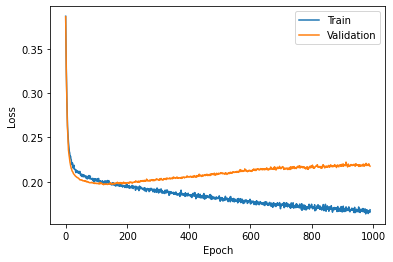
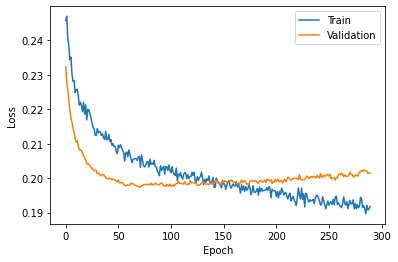
On original full dataset
Val error bottoms out at 0.2 after 50 epochs

diff --git a/model.py b/model.py
@@ -1,24 +1,31 @@
 #!/usr/bin/env python3
-#import os
-#os.environ['CUDA_VISIBLE_DEVICES'] = '-1'
+
+import os
+# This small model is faster on the CPU.
+os.environ['CUDA_VISIBLE_DEVICES'] = '-1'
 
 import numpy as np
 from sklearn.model_selection import train_test_split
 import pandas as pd
 import tensorflow as tf
+import tensorflow.keras.layers as layers
+from tensorflow.keras.models import Sequential
+import tensorflow.keras.optimizers as optimizers
+from tensorflow.keras.callbacks import TensorBoard
 
 import matplotlib.pyplot as plt
 import IPython.display
 
 import time
 import random
-import os
 import sys
 
-start_time = time.time()
+# https://keras.io/getting_started/faq/#how-can-i-obtain-reproducible-results-using-keras-during-development
+np.random.seed(345)
+tf.random.set_seed(345)
+random.set_seed(345)
 
 # %%
-
 all_data = pd.read_csv('all_data_v7.0.1.csv')
 assert len(all_data.index) == 5295, len(all_data.index)
 
@@ -31,159 +38,92 @@ num_test_samples = 400
 assert ((num_train_samples + num_val_samples + num_test_samples) == len(
     all_data.index)), len(all_data.index)
 
-train_set = all_data.sample()
+train_set, val_test_set = train_test_split(all_data,
+                                           test_size=num_val_samples +
+                                           num_test_samples,
+                                           random_state=35,
+                                           shuffle=True)
 
-X_train, X_val_test = train_test_split(all_data,
-                                       test_size=num_val_samples +
-                                       num_test_samples,
-                                       random_state=35,
-                                       shuffle=True)
+val_set, test_set = train_test_split(val_test_set,
+                                     test_size=num_test_samples,
+                                     random_state=36)
+
+val_test_set = None
+#all_data = None
+
+
+def split_X_y(dataframe):
+  y = dataframe["P_OPS"]
+  X = dataframe.drop(columns="P_OPS")
+  return (X, y)
+
+
+train_X, train_y = split_X_y(train_set)
+val_X, val_y = split_X_y(val_set)
+test_X, test_y = split_X_y(test_set)
+
+train_set = None
+val_set = None
+test_set = None
+
 #%%
 
 # Keras
 model = Sequential()
-model.add(
-    layers.Conv1D(filters=40,
-                  kernel_size=3,
-                  strides=2,
-                  activation=None,
-                  use_bias=False,
-                  kernel_initializer='he_normal',
-                  input_shape=(X_train.shape[1], 1)))
+
+model.add(layers.InputLayer(input_shape=train_X.shape[1]))
+
+model.add(layers.Dense(60, activation=None, kernel_initializer='he_normal'))
 model.add(layers.BatchNormalization())
 model.add(layers.LeakyReLU(alpha=0.01))
 
-model.add(
-    layers.Conv1D(filters=50,
-                  kernel_size=3,
-                  strides=2,
-                  activation=None,
-                  use_bias=False,
-                  kernel_initializer='he_normal'))
+model.add(layers.Dense(20, activation=None, kernel_initializer='he_normal'))
 model.add(layers.BatchNormalization())
 model.add(layers.LeakyReLU(alpha=0.01))
 
-model.add(
-    layers.Conv1D(filters=60,
-                  kernel_size=3,
-                  strides=2,
-                  activation=None,
-                  use_bias=False,
-                  kernel_initializer='he_normal'))
+model.add(layers.Dense(20, activation=None, kernel_initializer='he_normal'))
 model.add(layers.BatchNormalization())
 model.add(layers.LeakyReLU(alpha=0.01))
 
-model.add(keras.layers.MaxPooling1D(pool_size=2))
+model.add(layers.Dense(1, activation=None))
 
-model.add(
-    layers.Conv1D(filters=60,
-                  kernel_size=3,
-                  strides=2,
-                  activation=None,
-                  use_bias=False,
-                  kernel_initializer='he_normal'))
-model.add(layers.BatchNormalization())
-model.add(layers.LeakyReLU(alpha=0.01))
+adam_optimizer = optimizers.Adam(lr=0.0001)
+model.compile(optimizer=adam_optimizer, loss='mse', metrics=['mse'])
 
-model.add(
-    layers.Conv1D(filters=60,
-                  kernel_size=3,
-                  strides=2,
-                  activation=None,
-                  use_bias=False,
-                  kernel_initializer='he_normal'))
-model.add(layers.BatchNormalization())
-model.add(layers.LeakyReLU(alpha=0.01))
-
-model.add(keras.layers.MaxPooling1D(pool_size=2))
-
-model.add(
-    layers.Conv1D(filters=80,
-                  kernel_size=3,
-                  strides=2,
-                  activation=None,
-                  use_bias=False,
-                  kernel_initializer='he_normal'))
-model.add(layers.BatchNormalization())
-model.add(layers.LeakyReLU(alpha=0.01))
-
-model.add(keras.layers.MaxPooling1D(pool_size=2))
-
-model.add(
-    layers.Conv1D(filters=100,
-                  kernel_size=3,
-                  strides=2,
-                  activation=None,
-                  use_bias=False,
-                  kernel_initializer='he_normal'))
-model.add(layers.BatchNormalization())
-model.add(layers.LeakyReLU(alpha=0.01))
-
-model.add(keras.layers.MaxPooling1D(pool_size=2))
-
-model.add(layers.Flatten())
-
-model.add(
-    layers.Dense(40,
-                 activation=None,
-                 use_bias=False,
-                 kernel_initializer='he_normal'))
-model.add(layers.BatchNormalization())
-model.add(layers.LeakyReLU(alpha=0.01))
-
-model.add(layers.Dense(NUM_SPEAKERS, activation='softmax'))
-
-adam_optimizer = keras.optimizers.Adam(lr=0.001)
-model.compile(optimizer=adam_optimizer,
-              loss='categorical_crossentropy',
-              metrics=['accuracy'])
-
-keras.utils.plot_model(model,
-                       to_file='test_keras_plot_model.png',
-                       show_shapes=True)
+# keras.utils.plot_model(model,
+#                        to_file='test_keras_plot_model.png',
+#                        show_shapes=True)
 # display(IPython.display.Image('test_keras_plot_model.png'))
 print(model.summary())
 print("Just printed model summary")
 
+#%%
+
 start_time = time.time()
-# with tf.device('/cpu:0'):
-# The baseline model has input size 1911 so we could use batch size 1024.
-# But the CNN has input size 11025, so we have to reduce the batch_size or the
-# GPU runs out of memory.
-tensor_board = keras.callbacks.TensorBoard(histogram_freq=1)
-history_object = model.fit(X_train,
-                           y_train,
-                           epochs=25,
-                           batch_size=64,
-                           verbose=2,
-                           callbacks=[tensor_board],
-                           shuffle=True,
-                           validation_data=(X_dev, y_dev))
+
+tensor_board = TensorBoard(histogram_freq=1)
+
+history_object = model.fit(
+    train_X,
+    train_y,
+    epochs=300,
+    batch_size=64,
+    verbose=2,
+    #callbacks=[tensor_board],
+    shuffle=True,
+    validation_data=(val_X, val_y))
 print("%d seconds to train the model" % (time.time() - start_time))
 
-model.save("cnn_model.h5")
-
-#generate_confusion_matrix(model, test_set_inputs, test_set_labels)
-generate_confusion_matrix(model, X_dev, y_dev)
+#model.save("cnn_model.h5")
 
 # %%
-# Plot training & validation accuracy values
-plt.plot(history_object.history['acc'])
-plt.plot(history_object.history['val_acc'])
-plt.title('CNN Accuracy')
-plt.ylabel('Accuracy')
-plt.xlabel('Epoch')
-plt.legend(['Train', 'Test'], loc='upper left')
-plt.savefig('cnn_accuracy.png', bbox_inches='tight')
-plt.close()
-# plt.show()
 
 # Plot training & validation loss values
-plt.plot(history_object.history['loss'])
-plt.plot(history_object.history['val_loss'])
-plt.title('CNN Model Loss')
+omit_first = 10
+plt.plot(history_object.history['mse'][omit_first:])
+plt.plot(history_object.history['val_mse'][omit_first:])
 plt.ylabel('Loss')
 plt.xlabel('Epoch')
-plt.legend(['Train', 'Test'], loc='upper left')
+plt.legend(['Train', 'Validation'], loc='upper right')
 plt.savefig('cnn_loss.png', bbox_inches='tight')
-# plt.show()
+plt.show()
